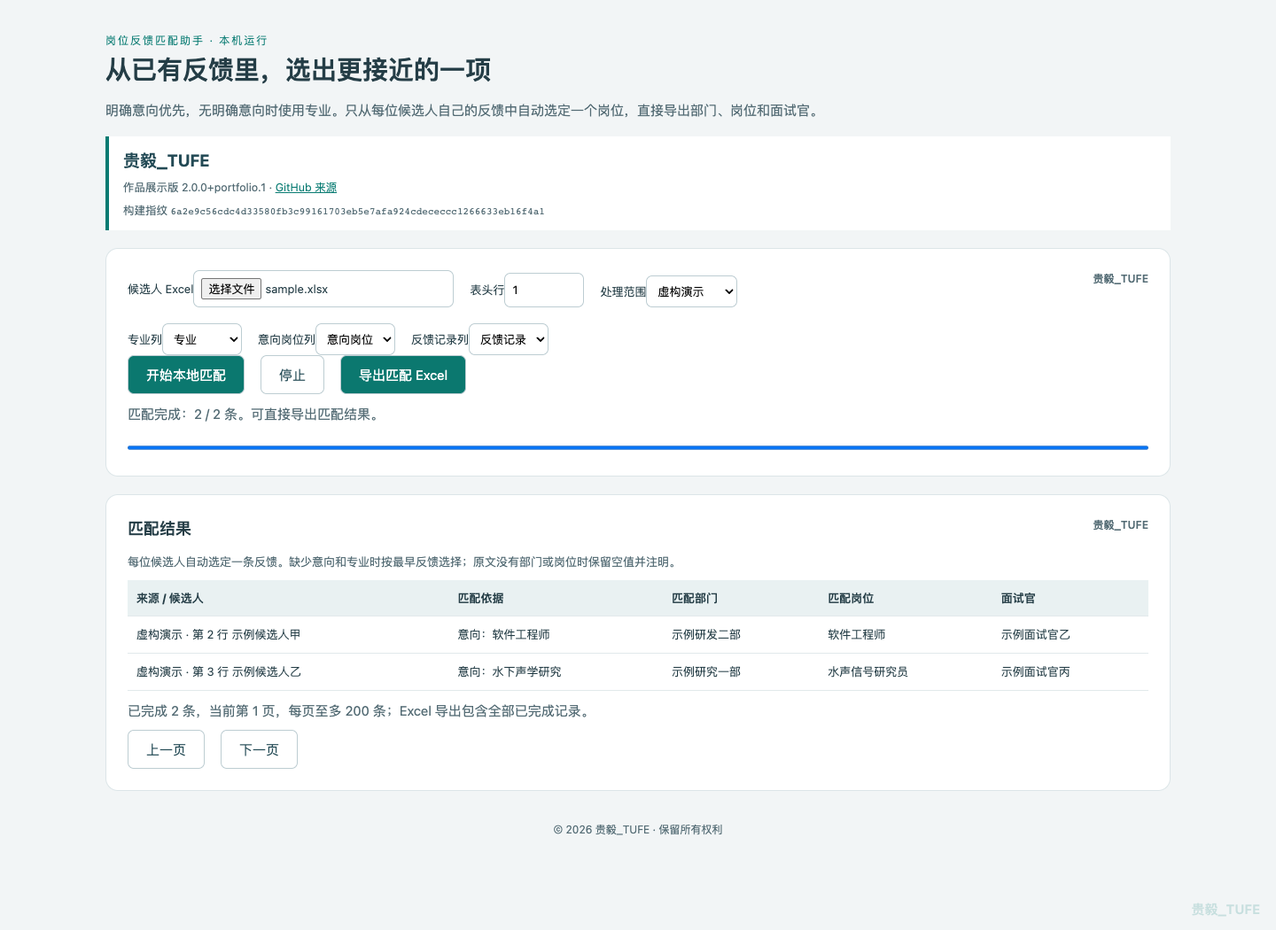
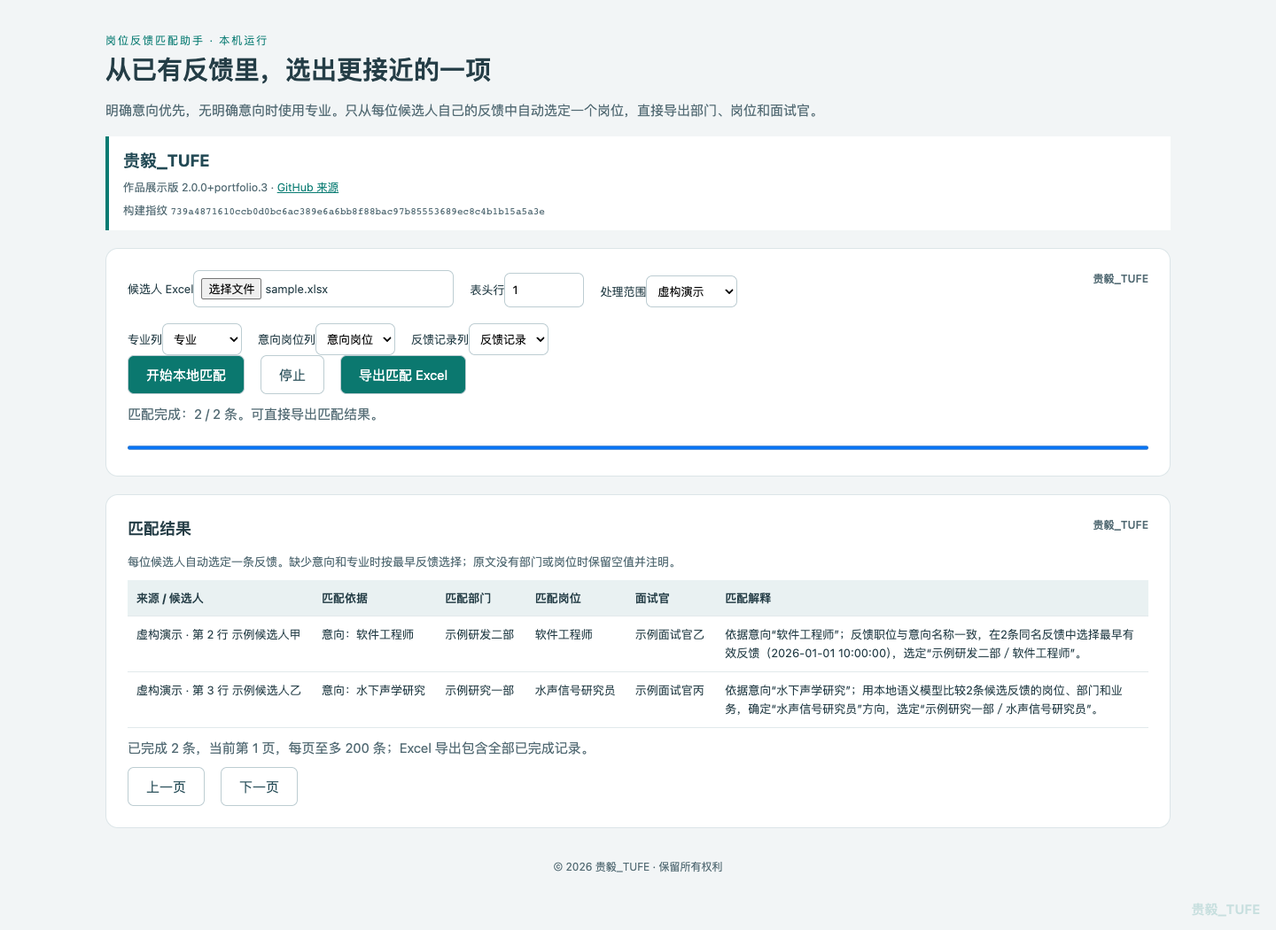
Restore per-result matching explanations in page and Excel

diff --git a/本地模型匹配.html b/本地模型匹配.html
@@ -2,9 +2,9 @@
 <style>
 *{box-sizing:border-box}body{margin:0;background:#f2f5f6;color:#243d46;font:15px/1.6 -apple-system,BlinkMacSystemFont,"PingFang SC",sans-serif}main{max-width:1250px;margin:36px auto;padding:0 24px}h1{font-size:29px;margin:0}p{margin:10px 0;color:#536b74}.tag{font-size:12px;color:#087b72;letter-spacing:2px}.panel{background:white;border:1px solid #dce5e8;border-radius:14px;padding:24px;margin:20px 0}.controls{display:flex;gap:18px;flex-wrap:wrap;align-items:end}label{display:block;font-size:13px}input,select,button{font:inherit;padding:8px;border:1px solid #bdcdd2;border-radius:7px;max-width:100%}input[type=number]{width:90px}button{background:#0b786f;color:white;cursor:pointer;padding:9px 20px}button:disabled{background:#a9b9bc;cursor:default}button.secondary{background:white;color:#234a55}#status{white-space:pre-wrap}#mapping{margin-top:18px}.tablewrap{overflow:auto;max-height:550px}table{border-collapse:collapse;width:100%;font-size:13px}th{position:sticky;top:0;background:#e9f1f2;text-align:left}td,th{padding:10px;vertical-align:top;border-bottom:1px solid #e1e9eb;min-width:100px}td select{width:260px}.note{font-size:13px}progress{width:100%;height:9px}#error{color:#a32a24;white-space:pre-wrap}
 .signature{border-left:4px solid #087b72;padding:12px 16px;margin:18px 0;background:#fff}.signature strong{font-size:19px;color:#234a55}.signature small{display:block;margin-top:6px;color:#536b74;overflow-wrap:anywhere}.signature a{color:#087b72}.signature code{font-size:11px}.owner-stamp{float:right;font-size:12px;font-weight:600;color:#536b74}.owner-footer{text-align:center;font-size:12px;color:#536b74;padding:14px 0}.watermark{position:fixed;right:18px;bottom:12px;opacity:.18;color:#087b72;font-weight:650;pointer-events:none}@media(max-width:600px){.owner-stamp{float:none;display:block;margin-bottom:8px}}</style></head><body><main><div class="tag">岗位反馈匹配助手 · 本机运行</div><h1>从已有反馈里，选出更接近的一项</h1><p>明确意向优先，无明确意向时使用专业。只从每位候选人自己的反馈中自动选定一个岗位，直接导出部门、岗位和面试官。</p>
-<aside class="signature"><strong>贵毅_TUFE</strong><small>作品展示版 2.0.0+portfolio.2 · <a href="https://github.com/liguiyi-hash/job-feedback-matcher" target="_blank" rel="noopener noreferrer">GitHub 来源</a></small><small>构建指纹 <code id="build-fingerprint">049180de0cabddca0b65c7e65d0ebd5f5ba9c88dc320e856fc0818fd63539423</code></small></aside><section class="panel"><span class="owner-stamp">贵毅_TUFE</span><div class="controls"><label>候选人 Excel<input id="file" type="file" accept=".xlsx,.xls"></label><label>表头行<input id="header" type="number" min="1" value="1"></label><label>处理范围<select id="sheet"></select></label></div><div id="mapping" class="controls"></div>
+<aside class="signature"><strong>贵毅_TUFE</strong><small>作品展示版 2.0.0+portfolio.3 · <a href="https://github.com/liguiyi-hash/job-feedback-matcher" target="_blank" rel="noopener noreferrer">GitHub 来源</a></small><small>构建指纹 <code id="build-fingerprint">739a4871610ccb0d0bc6ac389e6a6bb8f88bac97b85553689ec8c4b1b15a5a3e</code></small></aside><section class="panel"><span class="owner-stamp">贵毅_TUFE</span><div class="controls"><label>候选人 Excel<input id="file" type="file" accept=".xlsx,.xls"></label><label>表头行<input id="header" type="number" min="1" value="1"></label><label>处理范围<select id="sheet"></select></label></div><div id="mapping" class="controls"></div>
 <div class="controls"><button id="run" disabled>开始本地匹配</button><button id="cancel" class="secondary" disabled>停止</button><button id="export" disabled>导出匹配 Excel</button></div><p id="status">请选择工作簿。模型：BAAI/bge-small-zh-v1.5；运行时无需云端账号。</p><progress id="progress" value="0" max="1"></progress><div id="error" role="alert"></div></section>
-<section class="panel"><span class="owner-stamp">贵毅_TUFE</span><h2 style="font-size:18px;margin:0 0 12px">匹配结果</h2><p class="note">每位候选人自动选定一条反馈。缺少意向和专业时按最早反馈选择；原文没有部门或岗位时保留空值并注明。</p><div class="tablewrap"><table><thead><tr><th>来源 / 候选人</th><th>匹配依据</th><th>匹配部门</th><th>匹配岗位</th><th>面试官</th></tr></thead><tbody id="rows"></tbody></table></div><p id="count"></p><div class="controls"><button id="previous" class="secondary" disabled>上一页</button><button id="next" class="secondary" disabled>下一页</button></div></section><footer class="owner-footer">© 2026 贵毅_TUFE · 保留所有权利</footer></main><div class="watermark" aria-hidden="true">贵毅_TUFE</div>
+<section class="panel"><span class="owner-stamp">贵毅_TUFE</span><h2 style="font-size:18px;margin:0 0 12px">匹配结果</h2><p class="note">每位候选人自动选定一条反馈。缺少意向和专业时按最早反馈选择；原文没有部门或岗位时保留空值并注明。</p><div class="tablewrap"><table><thead><tr><th>来源 / 候选人</th><th>匹配依据</th><th>匹配部门</th><th>匹配岗位</th><th>面试官</th><th>匹配解释</th></tr></thead><tbody id="rows"></tbody></table></div><p id="count"></p><div class="controls"><button id="previous" class="secondary" disabled>上一页</button><button id="next" class="secondary" disabled>下一页</button></div></section><footer class="owner-footer">© 2026 贵毅_TUFE · 保留所有权利</footer></main><div class="watermark" aria-hidden="true">贵毅_TUFE</div>
 <script>/*
                                  Apache License
                            Version 2.0, January 2004
@@ -526,7 +526,26 @@ t.sheetStubs=true}if(t.type=="array"){t.type="binary";var a=xk(e,t);t.type="arra
   const peers=shortlist.filter(c=>c.job===top.job&&c.business===top.business);
   return {...result,selected:earliest(peers).index,reason:'语义补充排序，同岗位同业务取最早'};
  }
- const api={match,earliest,version:'2.0.0+portfolio.2'};root.FinalMatcher=api;if(typeof module!=='undefined')module.exports=api;
+ function explain(r){
+  const c=r.candidates.find(c=>c.index===r.selected),items=r.candidates.filter(c=>c.job&&c.department);
+  if(!c)return '反馈中没有可识别的部门和岗位，未生成匹配。';
+  const basis=r.basis?`依据${r.basisType}“${r.basis}”`:'未提供有效意向和专业';
+  const choice=`“${c.department}／${c.job}”`,time=c.timestamp===null?'按原文先后顺序选择':`选择最早有效反馈（${c.time}）`;
+  if(r.reason==='同名意向取最早'){
+   const same=items.filter(o=>E.normalize(o.job)===E.normalize(r.basis));
+   return `${basis}；反馈职位与意向名称一致${same.length>1?`，在${same.length}条同名反馈中${time}`:'，优先于其他职位'}，选定${choice}。`;
+  }
+  if(!r.basis)return `${basis}；在${items.length}条可用反馈中${time}，选定${choice}。`;
+  if(r.reason==='唯一可用反馈')return `${basis}；仅有1条可用反馈，直接保留${choice}，未进行多岗位比较。`;
+  if(r.reason==='明确职能或领域优先，同类取最早'){
+   const rule=E.matchRecord(r),assessed=rule.candidates.find(o=>o.index===c.index),max=Math.max(...rule.candidates.filter(o=>o.job&&o.department).map(o=>o.level));
+   const peers=rule.candidates.filter(o=>o.job&&o.department&&o.level===max);
+   return `${basis}；规则判断：${assessed.reason}${assessed.supplement?'（关联来自补充说明，输出仍为原反馈主岗位）':''}。${peers.length>1?`在${peers.length}条最高关联反馈中${time}，`:'优先该职能或领域，'}选定${choice}。`;
+  }
+  const peers=items.filter(o=>Object.hasOwn(r.scores||{},o.index)&&o.job===c.job&&o.business===c.business),compared=Object.keys(r.scores||{}).length;
+  return `${basis}；用本地语义模型比较${compared}条候选反馈的岗位、部门和业务，确定“${c.job}”方向${peers.length>1?`，再在同岗位同业务的反馈中${time}`:''}，选定${choice}。`;
+ }
+ const api={match,explain,earliest,version:'2.0.0+portfolio.3'};root.FinalMatcher=api;if(typeof module!=='undefined')module.exports=api;
 })(typeof globalThis!=='undefined'?globalThis:this);
 </script><script>const SESSION_TOKEN='__SESSION_TOKEN__';</script><script>/* © 2026 贵毅_TUFE · 来源：https://github.com/liguiyi-hash/job-feedback-matcher · 自有代码保留所有权利，见LICENSE。 */
 /* 自动结果版：一次导入、自动选定、直接导出。 */
@@ -587,19 +606,19 @@ t.sheetStubs=true}if(t.type=="array"){t.type="binary";var a=xk(e,t);t.type="arra
   $('rows').replaceChildren();for(const r of completed.slice(pageIndex*200,(pageIndex+1)*200)){
    const tr=document.createElement('tr'),cell=t=>{const td=document.createElement('td');td.textContent=t;tr.append(td);return td;};
    cell(`${r.sheetName} · 第 ${r.row} 行\n${r.displayName}`);cell(`${r.basisType}：${r.basis||'未提供'}`);
-   const c=r.candidates.find(c=>c.index===r.selected);cell(c?.department||'无可用反馈');cell(c?.job||'');cell(c?.interviewer||'');
+   const c=r.candidates.find(c=>c.index===r.selected);cell(c?.department||'无可用反馈');cell(c?.job||'');cell(c?.interviewer||'');const explanation=cell(FinalMatcher.explain(r));explanation.style.minWidth='300px';explanation.style.maxWidth='480px';
    $('rows').append(tr);
   }$('count').textContent=`已完成 ${completed.length} 条，当前第 ${pageIndex+1} 页，每页至多 200 条；Excel 导出包含全部已完成记录。`;
  }
  $('export').onclick=()=>{
   try{
-   const headers=['候选人','匹配部门','匹配岗位','面试官','专业','原始意向','反馈时间','来源工作表','原始行号','选中反馈原文','处理状态','版本水印','结果批次'];
+   const headers=['候选人','匹配部门','匹配岗位','面试官','匹配解释','专业','原始意向','反馈时间','来源工作表','原始行号','选中反馈原文','处理状态','版本水印','结果批次'];
    const batchId=crypto.randomUUID();
-   const rows=completed.map(r=>{const c=r.candidates.find(c=>c.index===r.selected);return [r.displayName,c?.department||'',c?.job||'',c?.interviewer||'',r.major,r.intent,c?.time||'',r.sheetName,r.row,c?.raw||'',c?'已自动选择':'无可用部门和岗位','贵毅_TUFE · 2.0.0+portfolio.2',batchId];});
-   const ws=XLSX.utils.aoa_to_sheet([headers,...rows]);ws['!cols']=[18,36,29,35,30,40,25,14,13,100,24,35,42].map(wch=>({wch}));
+   const rows=completed.map(r=>{const c=r.candidates.find(c=>c.index===r.selected);return [r.displayName,c?.department||'',c?.job||'',c?.interviewer||'',FinalMatcher.explain(r),r.major,r.intent,c?.time||'',r.sheetName,r.row,c?.raw||'',c?'已自动选择':'无可用部门和岗位','贵毅_TUFE · 2.0.0+portfolio.3',batchId];});
+   const ws=XLSX.utils.aoa_to_sheet([headers,...rows]);ws['!cols']=[18,36,29,35,95,30,40,25,14,13,100,24,35,42].map(wch=>({wch}));
    ws['!autofilter']={ref:XLSX.utils.encode_range({s:{r:0,c:0},e:{r:rows.length,c:headers.length-1}})};
    const wb=XLSX.utils.book_new();wb.Props={Author:'贵毅_TUFE',Title:'岗位反馈匹配结果',Comments:'© 2026 贵毅_TUFE · '+batchId};XLSX.utils.book_append_sheet(wb,ws,'匹配结果');
-   XLSX.utils.book_append_sheet(wb,XLSX.utils.aoa_to_sheet([['程序信息','内容'],['署名','贵毅_TUFE'],['版本','2.0.0+portfolio.2'],['GitHub来源','https://github.com/liguiyi-hash/job-feedback-matcher'],['构建指纹',document.getElementById('build-fingerprint').textContent],['结果批次',batchId],['导出时间',new Date().toISOString()]]),'程序信息');
+   XLSX.utils.book_append_sheet(wb,XLSX.utils.aoa_to_sheet([['程序信息','内容'],['署名','贵毅_TUFE'],['版本','2.0.0+portfolio.3'],['GitHub来源','https://github.com/liguiyi-hash/job-feedback-matcher'],['构建指纹',document.getElementById('build-fingerprint').textContent],['结果批次',batchId],['导出时间',new Date().toISOString()]]),'程序信息');
    if(completed.length!==input.records.length)XLSX.utils.book_append_sheet(wb,XLSX.utils.aoa_to_sheet([['处理情况','已完成','总记录'],['部分完成，未处理记录未导出',completed.length,input.records.length]]),'处理情况');
    XLSX.writeFile(wb,completed.length===input.records.length?'候选人岗位匹配结果.xlsx':'候选人岗位匹配结果_部分完成.xlsx');
   }catch(e){error(e);}

diff --git a/src/local.html b/src/local.html
@@ -2,7 +2,7 @@
 <style>
 *{box-sizing:border-box}body{margin:0;background:#f2f5f6;color:#243d46;font:15px/1.6 -apple-system,BlinkMacSystemFont,"PingFang SC",sans-serif}main{max-width:1250px;margin:36px auto;padding:0 24px}h1{font-size:29px;margin:0}p{margin:10px 0;color:#536b74}.tag{font-size:12px;color:#087b72;letter-spacing:2px}.panel{background:white;border:1px solid #dce5e8;border-radius:14px;padding:24px;margin:20px 0}.controls{display:flex;gap:18px;flex-wrap:wrap;align-items:end}label{display:block;font-size:13px}input,select,button{font:inherit;padding:8px;border:1px solid #bdcdd2;border-radius:7px;max-width:100%}input[type=number]{width:90px}button{background:#0b786f;color:white;cursor:pointer;padding:9px 20px}button:disabled{background:#a9b9bc;cursor:default}button.secondary{background:white;color:#234a55}#status{white-space:pre-wrap}#mapping{margin-top:18px}.tablewrap{overflow:auto;max-height:550px}table{border-collapse:collapse;width:100%;font-size:13px}th{position:sticky;top:0;background:#e9f1f2;text-align:left}td,th{padding:10px;vertical-align:top;border-bottom:1px solid #e1e9eb;min-width:100px}td select{width:260px}.note{font-size:13px}progress{width:100%;height:9px}#error{color:#a32a24;white-space:pre-wrap}
 .signature{border-left:4px solid #087b72;padding:12px 16px;margin:18px 0;background:#fff}.signature strong{font-size:19px;color:#234a55}.signature small{display:block;margin-top:6px;color:#536b74;overflow-wrap:anywhere}.signature a{color:#087b72}.signature code{font-size:11px}.owner-stamp{float:right;font-size:12px;font-weight:600;color:#536b74}.owner-footer{text-align:center;font-size:12px;color:#536b74;padding:14px 0}.watermark{position:fixed;right:18px;bottom:12px;opacity:.18;color:#087b72;font-weight:650;pointer-events:none}@media(max-width:600px){.owner-stamp{float:none;display:block;margin-bottom:8px}}</style></head><body><main><div class="tag">岗位反馈匹配助手 · 本机运行</div><h1>从已有反馈里，选出更接近的一项</h1><p>明确意向优先，无明确意向时使用专业。只从每位候选人自己的反馈中自动选定一个岗位，直接导出部门、岗位和面试官。</p>
-<aside class="signature"><strong>贵毅_TUFE</strong><small>作品展示版 2.0.0+portfolio.2 · <a href="https://github.com/liguiyi-hash/job-feedback-matcher" target="_blank" rel="noopener noreferrer">GitHub 来源</a></small><small>构建指纹 <code id="build-fingerprint">__BUILD_ID__</code></small></aside><section class="panel"><span class="owner-stamp">贵毅_TUFE</span><div class="controls"><label>候选人 Excel<input id="file" type="file" accept=".xlsx,.xls"></label><label>表头行<input id="header" type="number" min="1" value="1"></label><label>处理范围<select id="sheet"></select></label></div><div id="mapping" class="controls"></div>
+<aside class="signature"><strong>贵毅_TUFE</strong><small>作品展示版 2.0.0+portfolio.3 · <a href="https://github.com/liguiyi-hash/job-feedback-matcher" target="_blank" rel="noopener noreferrer">GitHub 来源</a></small><small>构建指纹 <code id="build-fingerprint">__BUILD_ID__</code></small></aside><section class="panel"><span class="owner-stamp">贵毅_TUFE</span><div class="controls"><label>候选人 Excel<input id="file" type="file" accept=".xlsx,.xls"></label><label>表头行<input id="header" type="number" min="1" value="1"></label><label>处理范围<select id="sheet"></select></label></div><div id="mapping" class="controls"></div>
 <div class="controls"><button id="run" disabled>开始本地匹配</button><button id="cancel" class="secondary" disabled>停止</button><button id="export" disabled>导出匹配 Excel</button></div><p id="status">请选择工作簿。模型：BAAI/bge-small-zh-v1.5；运行时无需云端账号。</p><progress id="progress" value="0" max="1"></progress><div id="error" role="alert"></div></section>
-<section class="panel"><span class="owner-stamp">贵毅_TUFE</span><h2 style="font-size:18px;margin:0 0 12px">匹配结果</h2><p class="note">每位候选人自动选定一条反馈。缺少意向和专业时按最早反馈选择；原文没有部门或岗位时保留空值并注明。</p><div class="tablewrap"><table><thead><tr><th>来源 / 候选人</th><th>匹配依据</th><th>匹配部门</th><th>匹配岗位</th><th>面试官</th></tr></thead><tbody id="rows"></tbody></table></div><p id="count"></p><div class="controls"><button id="previous" class="secondary" disabled>上一页</button><button id="next" class="secondary" disabled>下一页</button></div></section><footer class="owner-footer">© 2026 贵毅_TUFE · 保留所有权利</footer></main><div class="watermark" aria-hidden="true">贵毅_TUFE</div>
+<section class="panel"><span class="owner-stamp">贵毅_TUFE</span><h2 style="font-size:18px;margin:0 0 12px">匹配结果</h2><p class="note">每位候选人自动选定一条反馈。缺少意向和专业时按最早反馈选择；原文没有部门或岗位时保留空值并注明。</p><div class="tablewrap"><table><thead><tr><th>来源 / 候选人</th><th>匹配依据</th><th>匹配部门</th><th>匹配岗位</th><th>面试官</th><th>匹配解释</th></tr></thead><tbody id="rows"></tbody></table></div><p id="count"></p><div class="controls"><button id="previous" class="secondary" disabled>上一页</button><button id="next" class="secondary" disabled>下一页</button></div></section><footer class="owner-footer">© 2026 贵毅_TUFE · 保留所有权利</footer></main><div class="watermark" aria-hidden="true">贵毅_TUFE</div>
 <script>/*__XLSX__*/</script><script>/*__ENGINE__*/</script><script>/*__DATA__*/</script><script>/*__FINAL_ENGINE__*/</script><script>const SESSION_TOKEN='__SESSION_TOKEN__';</script><script>/*__LOCAL_APP__*/</script></body></html>

diff --git a/src/local-app.js b/src/local-app.js
@@ -57,19 +57,19 @@
   $('rows').replaceChildren();for(const r of completed.slice(pageIndex*200,(pageIndex+1)*200)){
    const tr=document.createElement('tr'),cell=t=>{const td=document.createElement('td');td.textContent=t;tr.append(td);return td;};
    cell(`${r.sheetName} · 第 ${r.row} 行\n${r.displayName}`);cell(`${r.basisType}：${r.basis||'未提供'}`);
-   const c=r.candidates.find(c=>c.index===r.selected);cell(c?.department||'无可用反馈');cell(c?.job||'');cell(c?.interviewer||'');
+   const c=r.candidates.find(c=>c.index===r.selected);cell(c?.department||'无可用反馈');cell(c?.job||'');cell(c?.interviewer||'');const explanation=cell(FinalMatcher.explain(r));explanation.style.minWidth='300px';explanation.style.maxWidth='480px';
    $('rows').append(tr);
   }$('count').textContent=`已完成 ${completed.length} 条，当前第 ${pageIndex+1} 页，每页至多 200 条；Excel 导出包含全部已完成记录。`;
  }
  $('export').onclick=()=>{
   try{
-   const headers=['候选人','匹配部门','匹配岗位','面试官','专业','原始意向','反馈时间','来源工作表','原始行号','选中反馈原文','处理状态','版本水印','结果批次'];
+   const headers=['候选人','匹配部门','匹配岗位','面试官','匹配解释','专业','原始意向','反馈时间','来源工作表','原始行号','选中反馈原文','处理状态','版本水印','结果批次'];
    const batchId=crypto.randomUUID();
-   const rows=completed.map(r=>{const c=r.candidates.find(c=>c.index===r.selected);return [r.displayName,c?.department||'',c?.job||'',c?.interviewer||'',r.major,r.intent,c?.time||'',r.sheetName,r.row,c?.raw||'',c?'已自动选择':'无可用部门和岗位','贵毅_TUFE · 2.0.0+portfolio.2',batchId];});
-   const ws=XLSX.utils.aoa_to_sheet([headers,...rows]);ws['!cols']=[18,36,29,35,30,40,25,14,13,100,24,35,42].map(wch=>({wch}));
+   const rows=completed.map(r=>{const c=r.candidates.find(c=>c.index===r.selected);return [r.displayName,c?.department||'',c?.job||'',c?.interviewer||'',FinalMatcher.explain(r),r.major,r.intent,c?.time||'',r.sheetName,r.row,c?.raw||'',c?'已自动选择':'无可用部门和岗位','贵毅_TUFE · 2.0.0+portfolio.3',batchId];});
+   const ws=XLSX.utils.aoa_to_sheet([headers,...rows]);ws['!cols']=[18,36,29,35,95,30,40,25,14,13,100,24,35,42].map(wch=>({wch}));
    ws['!autofilter']={ref:XLSX.utils.encode_range({s:{r:0,c:0},e:{r:rows.length,c:headers.length-1}})};
    const wb=XLSX.utils.book_new();wb.Props={Author:'贵毅_TUFE',Title:'岗位反馈匹配结果',Comments:'© 2026 贵毅_TUFE · '+batchId};XLSX.utils.book_append_sheet(wb,ws,'匹配结果');
-   XLSX.utils.book_append_sheet(wb,XLSX.utils.aoa_to_sheet([['程序信息','内容'],['署名','贵毅_TUFE'],['版本','2.0.0+portfolio.2'],['GitHub来源','https://github.com/liguiyi-hash/job-feedback-matcher'],['构建指纹',document.getElementById('build-fingerprint').textContent],['结果批次',batchId],['导出时间',new Date().toISOString()]]),'程序信息');
+   XLSX.utils.book_append_sheet(wb,XLSX.utils.aoa_to_sheet([['程序信息','内容'],['署名','贵毅_TUFE'],['版本','2.0.0+portfolio.3'],['GitHub来源','https://github.com/liguiyi-hash/job-feedback-matcher'],['构建指纹',document.getElementById('build-fingerprint').textContent],['结果批次',batchId],['导出时间',new Date().toISOString()]]),'程序信息');
    if(completed.length!==input.records.length)XLSX.utils.book_append_sheet(wb,XLSX.utils.aoa_to_sheet([['处理情况','已完成','总记录'],['部分完成，未处理记录未导出',completed.length,input.records.length]]),'处理情况');
    XLSX.writeFile(wb,completed.length===input.records.length?'候选人岗位匹配结果.xlsx':'候选人岗位匹配结果_部分完成.xlsx');
   }catch(e){error(e);}

diff --git a/src/final-engine.js b/src/final-engine.js
@@ -25,5 +25,24 @@
   const peers=shortlist.filter(c=>c.job===top.job&&c.business===top.business);
   return {...result,selected:earliest(peers).index,reason:'语义补充排序，同岗位同业务取最早'};
  }
- const api={match,earliest,version:'2.0.0+portfolio.2'};root.FinalMatcher=api;if(typeof module!=='undefined')module.exports=api;
+ function explain(r){
+  const c=r.candidates.find(c=>c.index===r.selected),items=r.candidates.filter(c=>c.job&&c.department);
+  if(!c)return '反馈中没有可识别的部门和岗位，未生成匹配。';
+  const basis=r.basis?`依据${r.basisType}“${r.basis}”`:'未提供有效意向和专业';
+  const choice=`“${c.department}／${c.job}”`,time=c.timestamp===null?'按原文先后顺序选择':`选择最早有效反馈（${c.time}）`;
+  if(r.reason==='同名意向取最早'){
+   const same=items.filter(o=>E.normalize(o.job)===E.normalize(r.basis));
+   return `${basis}；反馈职位与意向名称一致${same.length>1?`，在${same.length}条同名反馈中${time}`:'，优先于其他职位'}，选定${choice}。`;
+  }
+  if(!r.basis)return `${basis}；在${items.length}条可用反馈中${time}，选定${choice}。`;
+  if(r.reason==='唯一可用反馈')return `${basis}；仅有1条可用反馈，直接保留${choice}，未进行多岗位比较。`;
+  if(r.reason==='明确职能或领域优先，同类取最早'){
+   const rule=E.matchRecord(r),assessed=rule.candidates.find(o=>o.index===c.index),max=Math.max(...rule.candidates.filter(o=>o.job&&o.department).map(o=>o.level));
+   const peers=rule.candidates.filter(o=>o.job&&o.department&&o.level===max);
+   return `${basis}；规则判断：${assessed.reason}${assessed.supplement?'（关联来自补充说明，输出仍为原反馈主岗位）':''}。${peers.length>1?`在${peers.length}条最高关联反馈中${time}，`:'优先该职能或领域，'}选定${choice}。`;
+  }
+  const peers=items.filter(o=>Object.hasOwn(r.scores||{},o.index)&&o.job===c.job&&o.business===c.business),compared=Object.keys(r.scores||{}).length;
+  return `${basis}；用本地语义模型比较${compared}条候选反馈的岗位、部门和业务，确定“${c.job}”方向${peers.length>1?`，再在同岗位同业务的反馈中${time}`:''}，选定${choice}。`;
+ }
+ const api={match,explain,earliest,version:'2.0.0+portfolio.3'};root.FinalMatcher=api;if(typeof module!=='undefined')module.exports=api;
 })(typeof globalThis!=='undefined'?globalThis:this);

diff --git a/build_local.py b/build_local.py
@@ -16,7 +16,7 @@ for marker,name in parts:
     page=page.replace('/*__'+marker+'__*/',code)
 page=page.replace('__BUILD_ID__',build_id)
 (BASE/'本地模型匹配.html').write_text(page)
-manifest={'version':'2.0.0+portfolio.2','attribution':'贵毅_TUFE','build_id':build_id,'algorithm':'SHA-256','files':entries(BASE)}
+manifest={'version':'2.0.0+portfolio.3','attribution':'贵毅_TUFE','build_id':build_id,'algorithm':'SHA-256','files':entries(BASE)}
 (BASE/'integrity-manifest.json').write_text(json.dumps(manifest,ensure_ascii=False,indent=2)+'\n')
-print('构建完成：2.0.0+portfolio.2；署名：贵毅_TUFE；构建指纹：'+build_id)
+print('构建完成：2.0.0+portfolio.3；署名：贵毅_TUFE；构建指纹：'+build_id)
 

diff --git a/README.md b/README.md
@@ -1,6 +1,7 @@
 # 岗位反馈匹配助手
 
-**贵毅_TUFE** · 作品展示版 2.0.0+portfolio.2  
+**贵毅_TUFE** · 作品展示版 2.0.0+portfolio.3
+
 [GitHub 项目来源](https://github.com/liguiyi-hash/job-feedback-matcher) · [版本说明](CHANGELOG.md)
 
 从候选人已经收到的部门反馈中选取较合适的一项，批量输出部门、岗位和面试官。基于用户提供的「岗位反馈匹配助手.zip」整理，不是前一个候选人管理平台。
@@ -11,6 +12,7 @@
 - 明确意向优先，无明确意向时使用专业。
 - 同名岗位及职能规则优先，未覆盖方向使用 BAAI/bge-small-zh-v1.5 补充比较。
 - 相同岗位和业务内优先较早反馈；缺少有效信息时按原有策略处理。
+- 页面和Excel均提供逐条匹配解释，说明实际选择路径。
 - 批量导出结果，保留工作表、原始行号和反馈原文。
 
 本项目使用预训练模型进行推理，不是自行训练的招聘模型。匹配分支是岗位分配辅助，不代表胜任能力、录用概率或招聘准确率。

diff --git a/CHANGELOG.md b/CHANGELOG.md
@@ -1,5 +1,10 @@
 # 版本说明
 
+## 2.0.0+portfolio.3 · 2026-10-23
+
+- 恢复页面与Excel的匹配解释列，说明实际采用的意向/专业、同名、职能规则、语义比较及最早反馈路径。
+- 未修改匹配选择函数。保留独立Python、模型和水印。
+
 ## 2.0.0+portfolio.2 · 2026-10-23
 
 - 启动优先使用随包Python，解决系统只有Python3.9时无法双击运行的问题。
